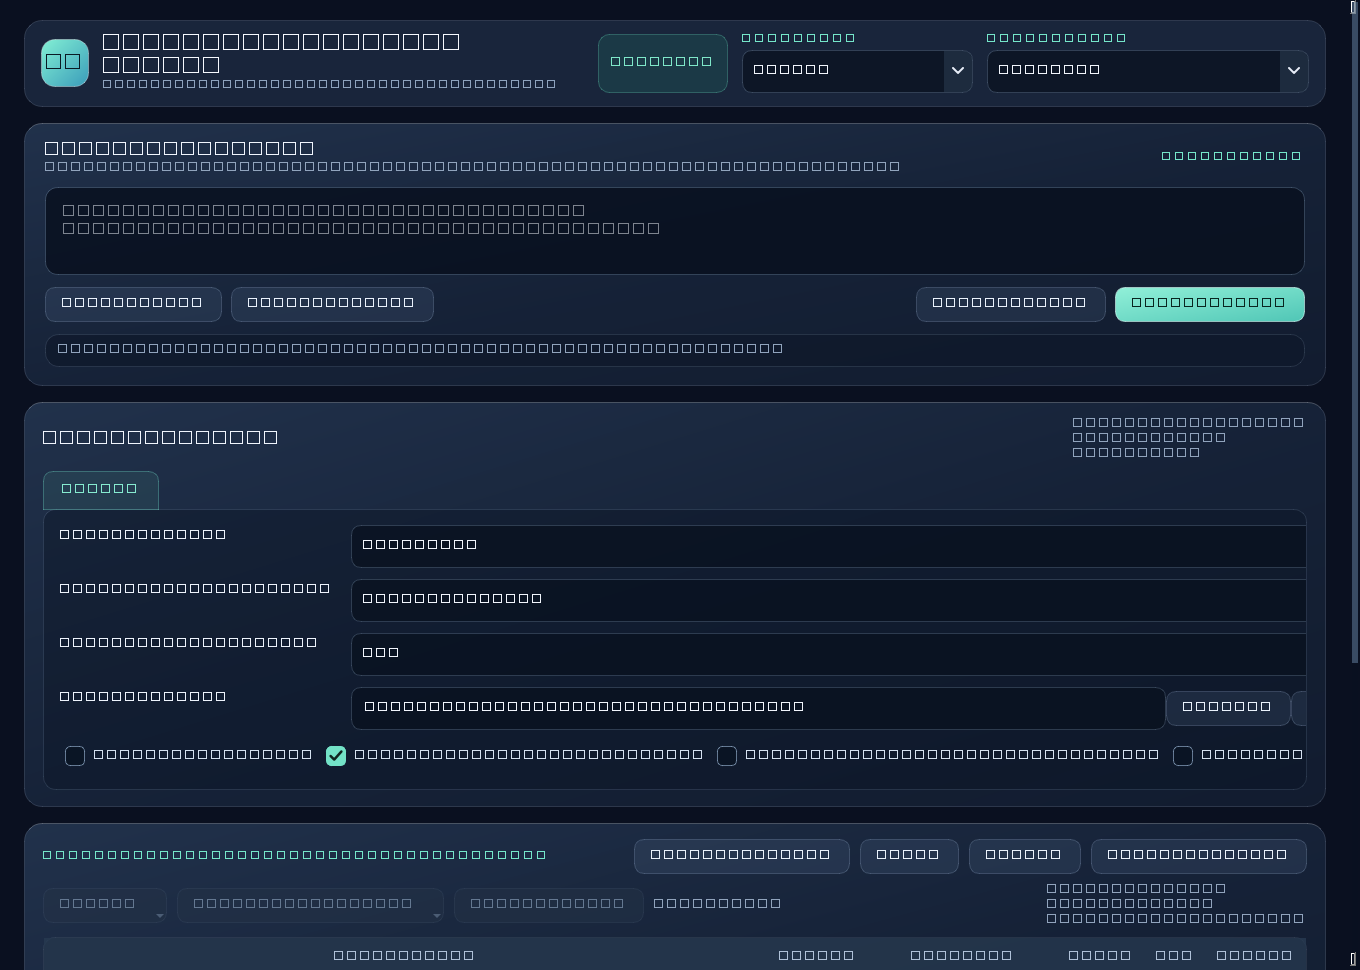
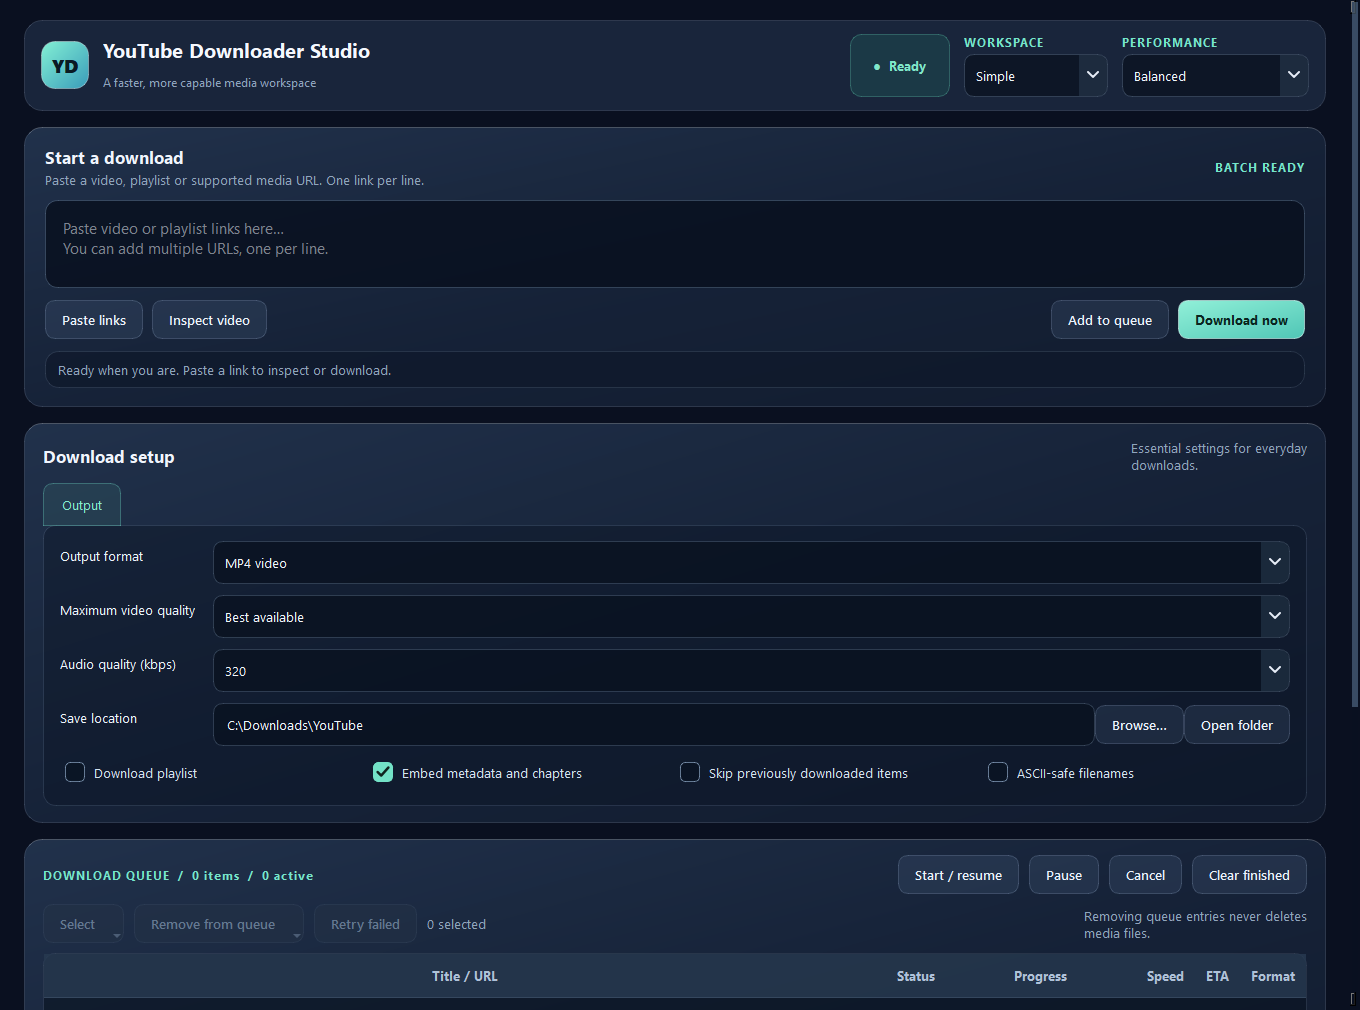
Fix-README-native-Windows-screenshots

diff --git a/scripts/capture_readme_screenshots.py b/scripts/capture_readme_screenshots.py
@@ -1,0 +1,129 @@
+"""Capture readable README screenshots from the real Windows PySide6 UI.
+
+Run with the project's Python environment on Windows. This does not download
+media, use personal application data, or change the user's saved settings.
+Offscreen Qt is intentionally rejected because it can render font glyphs as boxes.
+"""
+from pathlib import Path
+import os
+import sys
+import tempfile
+
+ROOT = Path(__file__).resolve().parents[1]
+sys.path.insert(0, str(ROOT))
+os.environ.pop("QT_QPA_PLATFORM", None)
+sys.argv.append("--smoke-test")  # Do not open startup diagnostic dialogs.
+from PySide6.QtCore import QPoint
+from PySide6.QtGui import QFont, QFontDatabase, QFontMetrics
+from PySide6.QtWidgets import QApplication
+import main
+
+if sys.platform != "win32":
+    raise RuntimeError("These README screenshots require native Windows Qt.")
+app = QApplication.instance() or QApplication([])
+if app.platformName().lower() != "windows":
+    raise RuntimeError("Qt Windows platform is required, not offscreen.")
+families = QFontDatabase.families()
+metrics = QFontMetrics(QFont("Segoe UI", 12))
+if "Segoe UI" not in families or not metrics.inFontUcs4(ord("A")):
+    raise RuntimeError("Segoe UI unavailable; refusing broken-font screenshots.")
+print("NATIVE PLATFORM:", app.platformName(), "AVAILABLE FONTS:", len(families), flush=True)
+
+app.setStyle("Fusion")
+app.setStyleSheet(main.STYLE)
+output = ROOT / "docs" / "images"
+output.mkdir(parents=True, exist_ok=True)
+def capture(widget, filename):
+    app.processEvents()
+    image = widget.grab()
+    file = output / filename
+    if image.isNull() or not image.save(str(file), "PNG"):
+        raise RuntimeError("Screenshot failed: " + filename)
+    if file.stat().st_size < 8000:
+        raise RuntimeError("Screenshot too small: " + filename)
+    print("CAPTURED", file.relative_to(ROOT), image.width(), image.height(), file.stat().st_size, flush=True)
+
+with tempfile.TemporaryDirectory(prefix="youtube-studio-documentation-") as isolation:
+    os.environ["LOCALAPPDATA"] = isolation
+    # main.DATA was imported before the isolated window is created.
+    main.DATA = Path(isolation) / "YouTubeDownloaderStudio"
+    main.DATA.mkdir(parents=True, exist_ok=True)
+    w = main.Window()
+    w.timer.stop()
+    w.resize(1360, 1010)
+    w.folder.setText(r"C:\Downloads\YouTube")
+    w.show()
+    app.processEvents()
+    scroll = w.page_scroll.verticalScrollBar()
+    scroll.setValue(0)
+    capture(w, "simple-workspace.png")
+
+    w.links.setPlainText("https://www.youtube.com/watch?v=dQw4w9WgXcQ")
+    w.preview.setText("Example URL entered. Choose Inspect video to check available formats.")
+    scroll.setValue(0)
+    capture(w, "paste-links.png")
+    w.links.clear()
+    w.preview.setText("Ready when you are. Paste a link to inspect or download.")
+
+    w.experience_combo.setCurrentText("Advanced")
+    w.preset_combo.setCurrentText("Maximum reliability")
+    w.tabs.setCurrentIndex(1)  # Performance tab; settings shown are real controls.
+    app.processEvents()
+    settings_y = w.tabs.mapTo(w.page_scroll.widget(), QPoint()).y()
+    scroll.setValue(max(0, settings_y - 135))
+    capture(w.tabs.parentWidget(), "advanced-workspace.png")
+    w.tabs.setCurrentIndex(2)
+    capture(w.tabs.parentWidget(), "subtitles-extras.png")
+    w.tabs.setCurrentIndex(3)
+    capture(w.tabs.parentWidget(), "network-privacy.png")
+
+    w.experience_combo.setCurrentText("Professional")
+    w.tabs.setCurrentIndex(4)  # Professional yt-dlp options.
+    app.processEvents()
+    settings_y = w.tabs.mapTo(w.page_scroll.widget(), QPoint()).y()
+    scroll.setValue(max(0, settings_y - 135))
+    capture(w.tabs.parentWidget(), "professional-workspace.png")
+
+    # Populate the REAL queue widget with explicitly labeled illustrative rows.
+    # No jobs are started and no media is downloaded.
+    sample = [
+        ("Demo example - paused MP4", "Paused", "57.5%", "MP4 video"),
+        ("Demo example - ready to resume", "Queued", "", "MKV video"),
+        ("Demo example - retry an error", "Failed", "", "MP3 audio"),
+    ]
+    w.jobs = [
+        dict(id="demo-" + str(i), url="https://example.com/example-media-" + str(i),
+             title=title, status=status, progress=progress, speed="", eta="",
+             files=[], settings={"folder":r"C:\Downloads\YouTube", "mode":mode})
+        for i, (title, status, progress, mode) in enumerate(sample)
+    ]
+    w.render()
+    app.processEvents()
+    table_y = w.table.mapTo(w.page_scroll.widget(), QPoint()).y()
+    scroll.setValue(max(0, table_y - 235))
+    capture(w.table.parentWidget(), "queue-controls.png")
+    w.table.selectRow(0)
+    app.processEvents()
+    capture(w.table, "progress-queue.png")
+    menu = w.job_menu([w.jobs[0]])
+    menu.show()
+    app.processEvents()
+    capture(menu, "job-actions-menu.png")
+    menu.close()
+    menu.deleteLater()
+    w.close()
+    app.processEvents()
+
+    # This is the real application's diagnostics dialog and result model.
+    results = main.check_runtime(
+        browser="None", destination=isolation, data_dir=main.DATA,
+        execute_tools=True
+    )
+    report = main.system_check_summary(results)
+    dialog = main.SystemCheckDialog(results, report)
+    dialog.show()
+    app.processEvents()
+    capture(dialog, "system-check.png")
+    dialog.close()
+
+print("SCREENSHOT CAPTURE COMPLETE.", flush=True)

diff --git a/preview_ui.py b/preview_ui.py
@@ -1,14 +1,13 @@
-import tempfile
+"""Compatibility shortcut for the native Windows documentation screenshot tool.
+
+The old Qt offscreen snapshot flow produced unreadable tofu glyphs.
+Capture screenshots with the real Windows Qt font database instead.
+"""
 from pathlib import Path
-from PySide6.QtWidgets import QApplication
-from PySide6.QtCore import QPoint
-import main
-app=QApplication([]);app.setStyle('Fusion');app.setStyleSheet(main.STYLE)
-with tempfile.TemporaryDirectory() as d:
- main.DATA=Path(d);w=main.Window();w.timer.stop();w.resize(1060,800);w.show();w.tabs.setCurrentIndex(2);app.processEvents()
- w.controls['subtitles'].setChecked(True)
- w.grab().save('ui-options-preview.png')
- w.tabs.widget(2).verticalScrollBar().setValue(w.tabs.widget(2).verticalScrollBar().maximum());app.processEvents();w.grab().save('ui-options-bottom.png')
- w.jobs=[dict(id='qa',title='Example video',url='https://example.com/video',status='Paused',progress='42.5%',speed='',eta='',files=[],settings={'mode':'MP4 video','folder':d,'quality':'1080p'})];w.render()
- w.page_scroll.verticalScrollBar().setValue(w.page_scroll.verticalScrollBar().maximum());app.processEvents()
- menu=w.job_menu(w.jobs);menu.popup(w.table.mapToGlobal(QPoint(120,30)));app.processEvents();menu.grab().save('ui-menu-preview.png');menu.close();w.close()
+import runpy
+
+if __name__ == "__main__":
+    runpy.run_path(
+        str(Path(__file__).resolve().parent / "scripts" / "capture_readme_screenshots.py"),
+        run_name="__main__",
+    )

diff --git a/README.md b/README.md
@@ -2,7 +2,7 @@
 
 A desktop video and audio downloader built with Python, PySide6, and yt-dlp. Manage a persistent download queue, choose formats and quality per job, and package the app with its download tools for standalone use.
 
-![YouTube Downloader Studio download options and batch queue](bulk-actions-preview.png)
+![YouTube Downloader Studio running on native Windows with readable fonts](docs/images/simple-workspace.png)
 
 ## Download
 
@@ -92,7 +92,7 @@ The helper downloads yt-dlp and Deno from their official GitHub releases and cop
 
 ## Visual walkthrough
 
-Screenshots below are captured from the current application, not concept mockups. Some features depend on the media source and available codecs.
+All screenshots below were captured directly from the running **Windows desktop application using native Qt rendering** (not offscreen mode or generated mockups). Text, labels, and controls are rendered using the system's real Segoe UI font. For safety, example URLs and queue entries are illustrative; no media was downloaded for these screenshots. Some features depend on the media source and available codecs.
 
 ### 1. Start in Simple workspace
 
@@ -112,6 +112,14 @@ Use a complete HTTP(S) URL on each line. Inspect to review metadata where the so
 
 Advanced settings include performance, network and media-processing controls. **Maximum speed** favors concurrency while **Maximum reliability** reduces aggressiveness and increases retries. Use conservative settings on rate-limited sites or unstable connections.
 
+**Subtitles and extras:** download or embed subtitles, thumbnails, metadata, descriptions and other supported details.
+
+![Actual Subtitles and extras tab in the Windows app](docs/images/subtitles-extras.png)
+
+**Network and privacy:** customize IP preference, optional proxy configuration and explicitly selected browser/cookie settings.
+
+![Actual Network and privacy tab in the Windows app](docs/images/network-privacy.png)
+
 ### 4. Customize Professional options
 
 ![Professional workspace custom downloader options](docs/images/professional-workspace.png)
@@ -120,25 +128,25 @@ Professional mode exposes additional yt-dlp features such as custom format selec
 
 ### 5. Manage the queue and downloads
 
-![Download queue and batch actions](bulk-actions-preview.png)
+![Real app download queue with sample job states](docs/images/queue-controls.png)
 
 Select one or more jobs to pause, resume, retry or cancel. The **Select** and **Remove from queue** menus support bulk actions and status filters. Queue deletion retains downloaded media; pause/resume keeps partial files where the site supports continuation.
 
-![Menu actions for download jobs](ui-menu-preview.png)
+![Actual context menu opened from a queue row](docs/images/job-actions-menu.png)
 
 Right-click an entry for its available file, folder, URL, retry and queue actions. Failed entries can be retried without touching successful ones.
 
 ### 6. Monitor transfer progress
 
-![Per-download progress tracking](progress-preview.png)
+![Actual Qt queue progress bars showing illustrative paused and queued entries](docs/images/progress-queue.png)
 
-The queue displays progress and download state. Media merges, subtitle processing and audio conversion may continue after the network transfer completes. A progress indicator alone does not mean a file is ready.
+The queue displays progress and download state (illustrative entries appear in the screenshot; no download was started to capture it). Media merges, subtitle processing and audio conversion may continue after the network transfer completes. A progress indicator alone does not mean a file is ready.
 
 ### 7. Run the system checker
 
 Use **System check** from the desktop app to inspect required media tools, storage permissions, free space and runtime compatibility. In a standalone Windows build, required tools are bundled; a separate Python installation is unnecessary. Use **Copy details** for a redacted support report and review it before sharing.
 
-![Options and settings overview](ui-options-preview.png)
+![Real System compatibility dialog showing locally detected readiness checks](docs/images/system-check.png)
 
 ### 8. Choose the right download profile
 
@@ -150,6 +158,10 @@ Use **System check** from the desktop app to inspect required media tools, stora
 | Fast downloads | Maximum speed | Higher concurrency is not always faster |
 | Audio files | MP3/M4A/FLAC/WAV | Re-encoding does not improve source fidelity |
 | Filtered archives | Professional + date/size filters | Test selectors on one item first |
+
+### Regenerate screenshots (maintainers)
+
+Run `.\.venv\Scripts\python.exe scripts\capture_readme_screenshots.py` in a **native Windows desktop session** with project dependencies installed. The script checks for Windows Qt and Segoe UI before generating screenshots, uses isolated application data, and displays clearly labeled sample queue entries without downloading anything. Avoid `QT_QPA_PLATFORM=offscreen`: it previously created the unreadable square characters seen in older documentation images.
 
 ## Using the app
 
